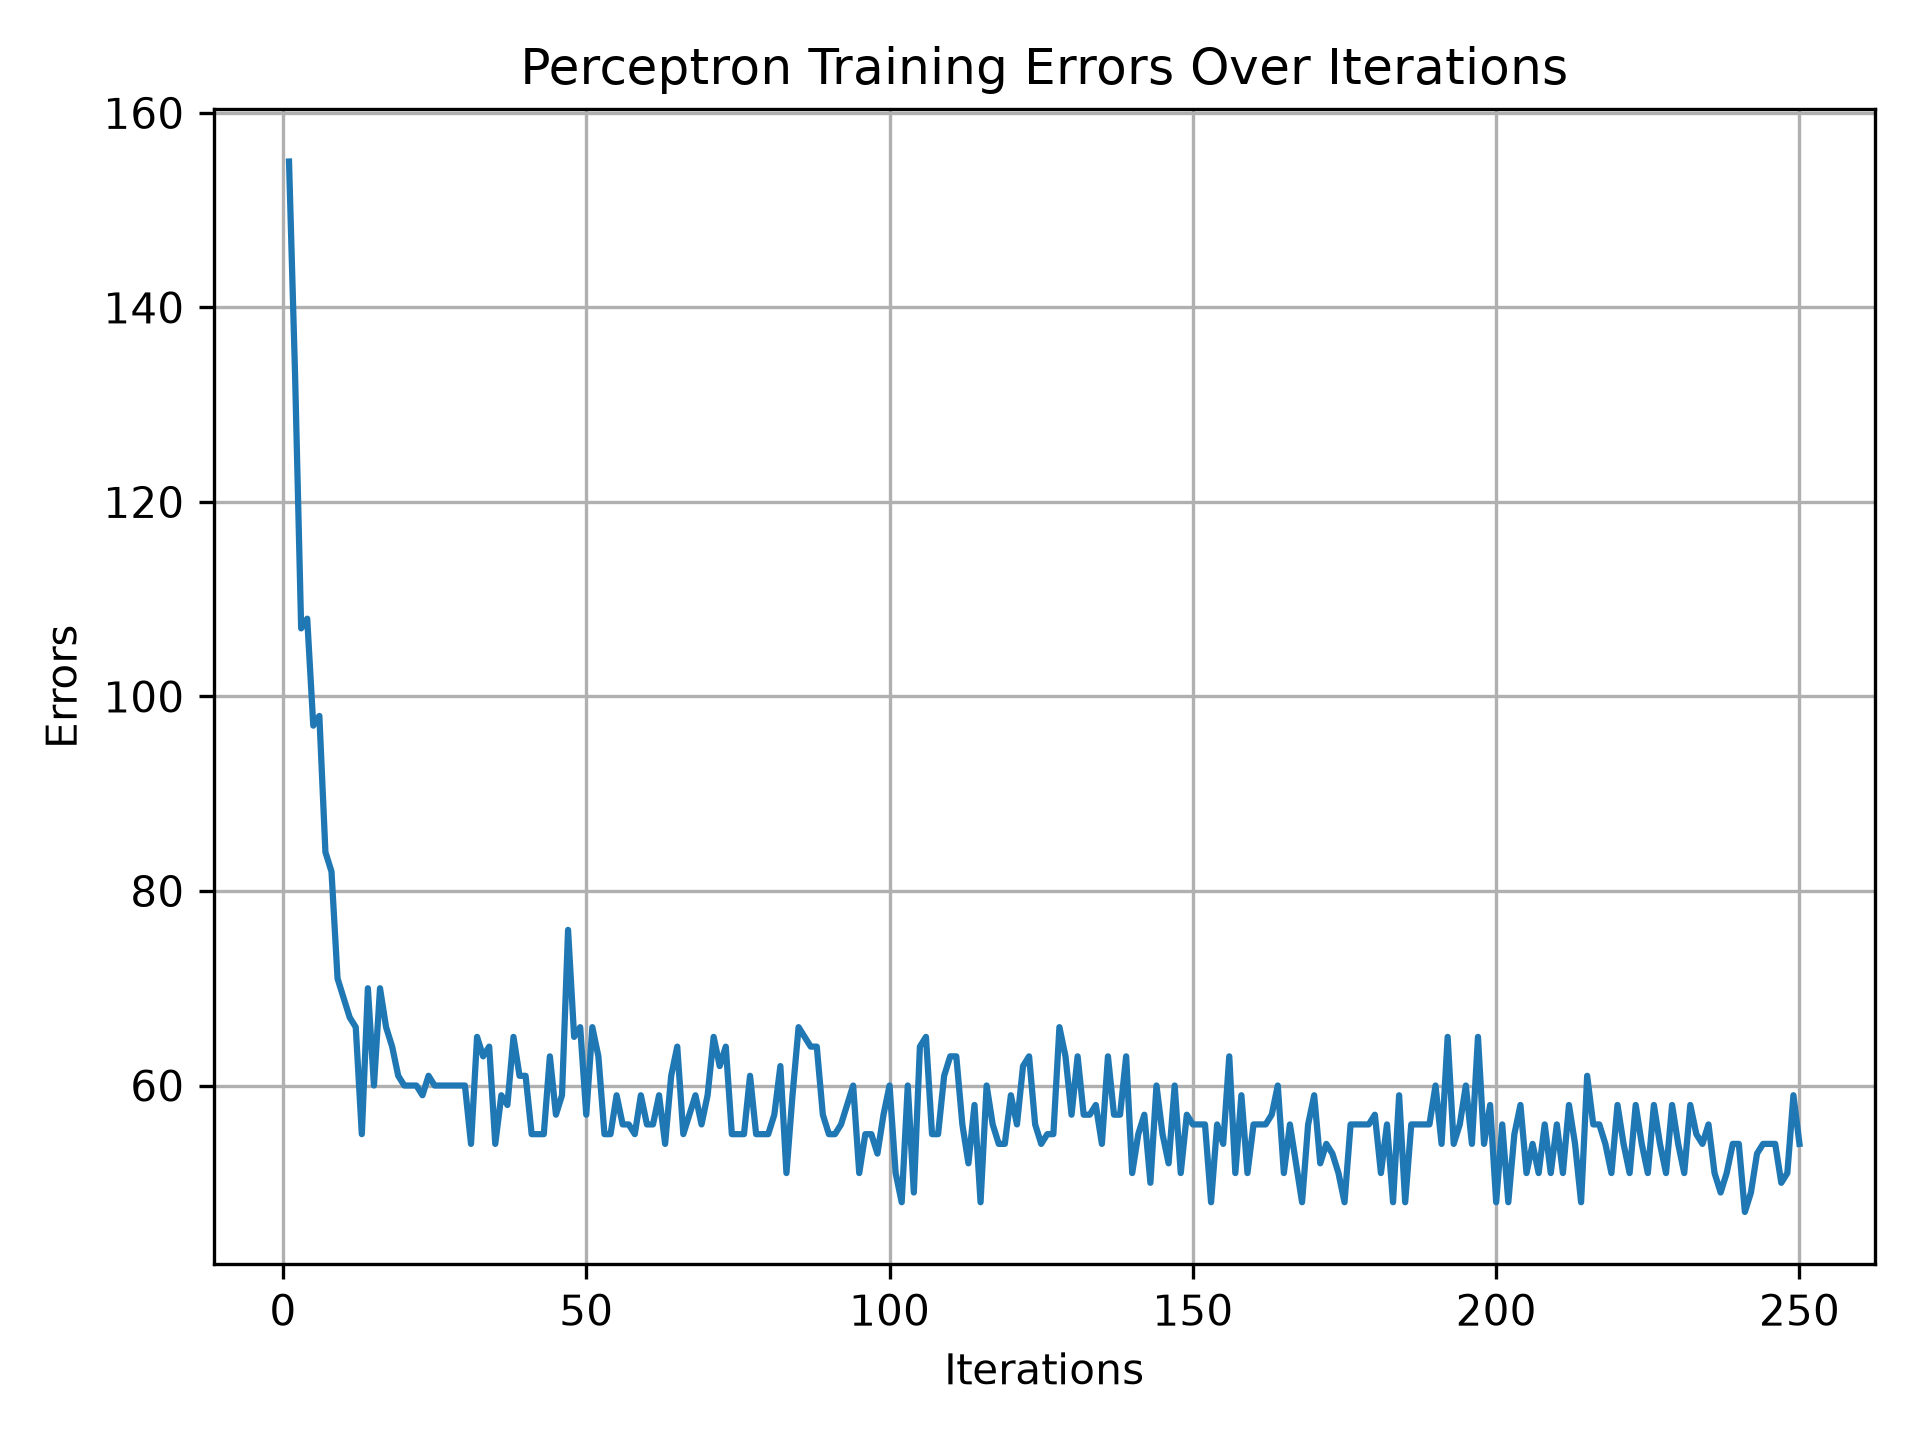
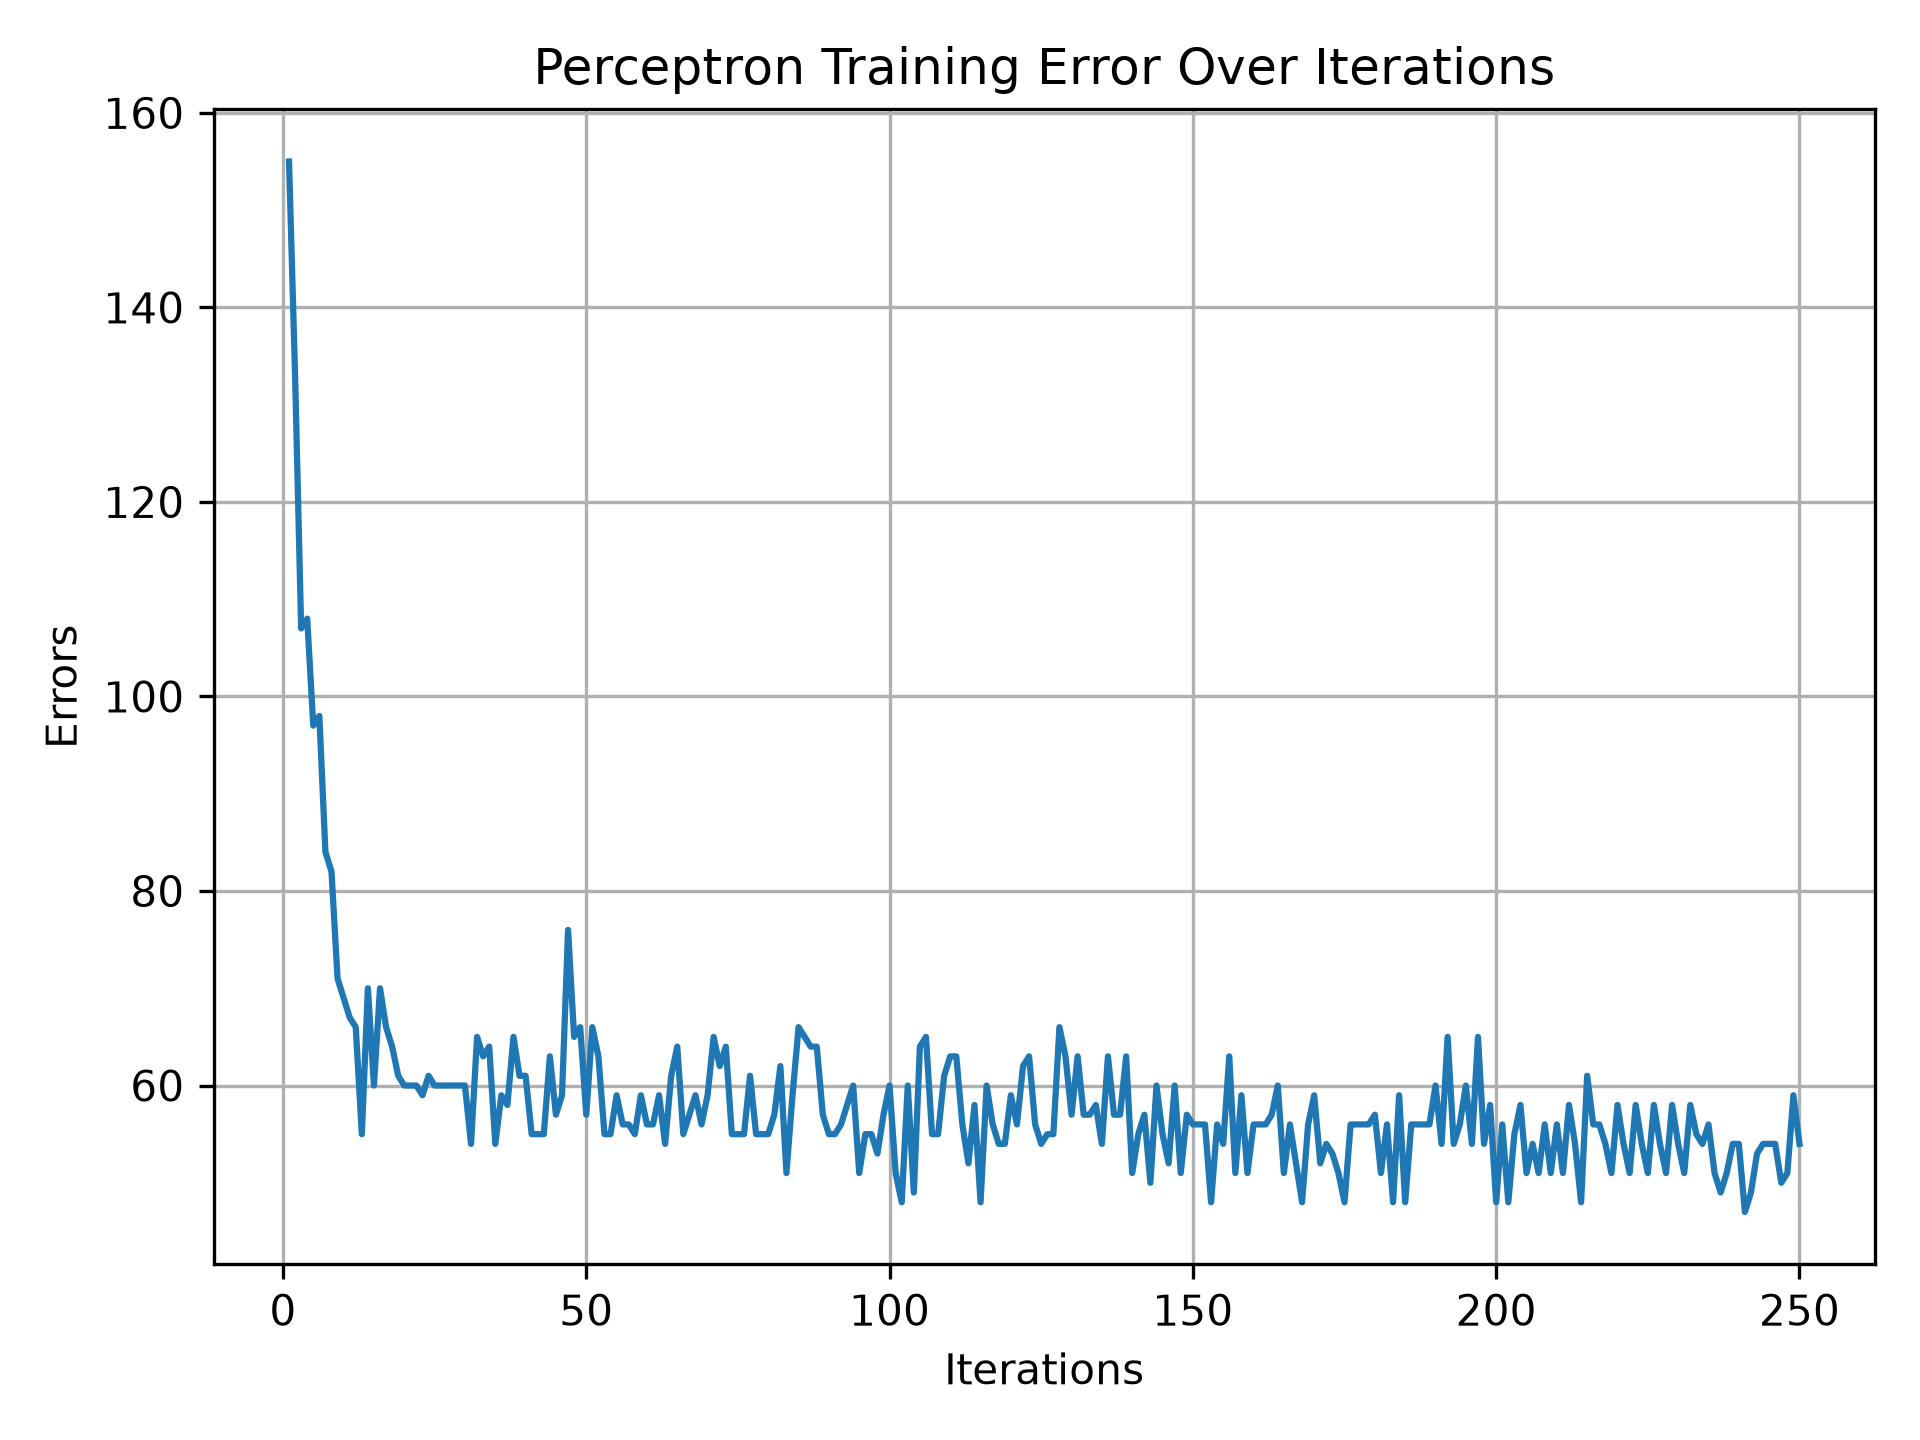
Implemented Logistic Regression + Added confusion matrix to evaluation

Changed region(s): [[0.25, 0.0312, 0.8125, 0.0625]]

diff --git a/02_logistic_regression/model.py b/02_logistic_regression/model.py
@@ -1,0 +1,44 @@
+import numpy as np
+
+class LogisticRegression:
+    def __init__(self, learning_rate=0.01, iterations=100):
+        self.learning_rate = learning_rate
+        self.iterations = iterations
+        self.weights = None
+        self.bias = None
+    
+    def weighted_sum(self, inputs):
+        return np.dot(inputs, self.weights) + self.bias
+
+    def sigmoid(self, z):
+        return 1 / (1 + np.exp(-z))
+    
+    def predict(self, inputs):
+        weighted_sum = self.weighted_sum(inputs)
+        return self.sigmoid(weighted_sum)
+
+    def predict_class(self, inputs, threshold=0.5):
+        probabilities = self.predict(inputs)
+        return np.where(probabilities >= threshold, 1, 0)
+    
+    def fit(self, X, y):
+        self.weights = np.zeros(X.shape[1])
+        self.bias = 0
+        self.losses = []
+
+        for i in range(self.iterations):
+
+            y_pred = self.predict(X)
+            error = y_pred - y
+            loss = -np.mean(y * np.log(y_pred + 1e-15) + (1 - y) * np.log(1 - y_pred + 1e-15))
+
+            dw = (1/len(X)) * X.T @ error
+            db = (1/len(X)) * np.sum(error)
+
+            self.weights -= self.learning_rate * dw
+            self.bias -= self.learning_rate * db
+
+            print(f"Iteration {i+1}/{self.iterations}, Loss: {loss:.4f}")
+            self.losses.append(loss)
+        
+        return self

diff --git a/02_logistic_regression/utils.py b/02_logistic_regression/utils.py
@@ -1,0 +1,26 @@
+import pickle
+from pathlib import Path
+from sklearn.datasets import load_breast_cancer
+from sklearn.model_selection import train_test_split
+from sklearn.preprocessing import StandardScaler
+
+def load_data():
+    breast_cancer = load_breast_cancer()
+    X, y = breast_cancer.data, breast_cancer.target
+    X_train, X_test, y_train, y_test = train_test_split(X, y, test_size=0.25, random_state=42)
+    return X_train, X_test, y_train, y_test
+
+def save_model(model, path):
+    Path(path).parent.mkdir(parents=True, exist_ok=True)
+    with open(path, "wb") as f:
+        pickle.dump(model, f)
+
+def load_model(path):
+    with open(path, "rb") as f:
+        return pickle.load(f)
+    
+def scale_data(X_train, X_test):
+    scaler = StandardScaler()
+    X_train_scaled = scaler.fit_transform(X_train)
+    X_test_scaled = scaler.transform(X_test)
+    return X_train_scaled, X_test_scaled, scaler

diff --git a/02_logistic_regression/train.py b/02_logistic_regression/train.py
@@ -1,0 +1,14 @@
+from utils import save_model, load_data, scale_data
+from model import LogisticRegression
+
+X_train, X_test, y_train, y_test = load_data()
+X_train, X_test, scaler = scale_data(X_train, X_test)
+
+print("Training set shape:", X_train.shape)
+print("Test set shape:", X_test.shape)
+
+logistic_regression = LogisticRegression(learning_rate=0.01, iterations=300)
+logistic_regression.fit(X_train, y_train)
+
+save_model(logistic_regression, "saved_models/logistic_regression.pkl")
+save_model(scaler, "saved_models/scaler.pkl")

diff --git a/01_perceptron/model.py b/01_perceptron/model.py
@@ -19,7 +19,7 @@ class Perceptron:
         self.bias = 0
         self.errors = []
 
-        for _ in range(self.iterations):
+        for i in range(self.iterations):
             error = 0
 
             for Xi, yi in zip(X, y):
@@ -29,7 +29,7 @@ class Perceptron:
                 self.bias += update
                 error += int(update != 0.0)
                 
-            print(f"Iteration {_+1}/{self.iterations}, Error: {error}")
+            print(f"Iteration {i+1}/{self.iterations}, Error: {error}")
             self.errors.append(error)
 
         return self